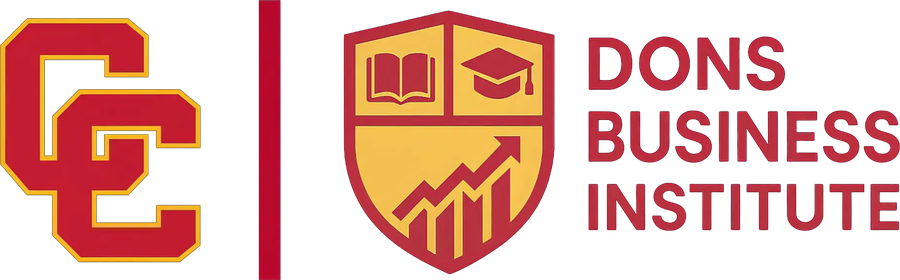
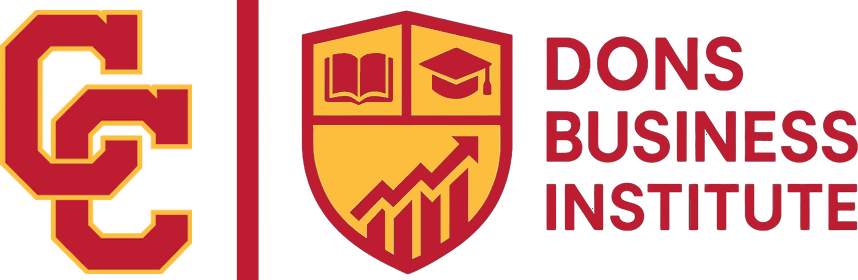
Swap in the official DBI lockup artwork

diff --git a/index.html b/index.html
@@ -14,7 +14,7 @@
 
 <header class="masthead" id="topbar">
   <a class="mark" href="index.html" aria-label="Dons Business Institute — home">
-    <img src="assets/img/lockup.png" alt="" width="170" height="53">
+    <img src="assets/img/lockup.png" alt="" width="170" height="55">
   </a>
   <nav aria-label="Primary">
     <a href="course.html" class="push">The Flagship Program</a>
@@ -62,7 +62,7 @@
     </div>
 
     <div class="intro-lockup" aria-hidden="true">
-      <img src="assets/img/lockup.png" alt="" width="560" height="174">
+      <img src="assets/img/lockup.png" alt="" width="560" height="183">
       <p class="descent-hint">Scroll<span class="hint-arrow">↓</span></p>
     </div>
   </div>
@@ -183,7 +183,7 @@
 
 <footer>
   <div class="wrap">
-    <img class="footer-mark" src="assets/img/lockup.png" alt="Dons Business Institute, Cathedral Catholic High School" width="280" height="87">
+    <img class="footer-mark" src="assets/img/lockup.png" alt="Dons Business Institute, Cathedral Catholic High School" width="280" height="91">
     <p class="charter">Student-led · Industry-informed · School-authorized · Adult-governed</p>
     <p class="fine">
       The Dons Business Institute is a programme of Cathedral Catholic High School, San Diego.

diff --git a/course.html b/course.html
@@ -14,7 +14,7 @@
 
 <header class="masthead" id="topbar">
   <a class="mark" href="index.html" aria-label="Dons Business Institute — home">
-    <img src="assets/img/lockup.png" alt="" width="170" height="53">
+    <img src="assets/img/lockup.png" alt="" width="170" height="55">
   </a>
   <nav aria-label="Primary">
     <a href="course.html" class="active">The Flagship Program</a>
@@ -521,7 +521,7 @@
 
 <footer>
   <div class="wrap">
-    <img class="footer-mark" src="assets/img/lockup.png" alt="Dons Business Institute, Cathedral Catholic High School" width="280" height="87">
+    <img class="footer-mark" src="assets/img/lockup.png" alt="Dons Business Institute, Cathedral Catholic High School" width="280" height="91">
     <p class="charter">Student-led · Industry-informed · School-authorized · Adult-governed</p>
     <p class="fine">
       The Dons Business Institute is a programme of Cathedral Catholic High School, San Diego.

diff --git a/donate.html b/donate.html
@@ -14,7 +14,7 @@
 
 <header class="masthead" id="topbar">
   <a class="mark" href="index.html" aria-label="Dons Business Institute — home">
-    <img src="assets/img/lockup.png" alt="" width="170" height="53">
+    <img src="assets/img/lockup.png" alt="" width="170" height="55">
   </a>
   <nav aria-label="Primary">
     <a href="course.html" class="push">The Flagship Program</a>
@@ -116,7 +116,7 @@
 
 <footer>
   <div class="wrap">
-    <img class="footer-mark" src="assets/img/lockup.png" alt="Dons Business Institute, Cathedral Catholic High School" width="280" height="87">
+    <img class="footer-mark" src="assets/img/lockup.png" alt="Dons Business Institute, Cathedral Catholic High School" width="280" height="91">
     <p class="charter">Student-led · Industry-informed · School-authorized · Adult-governed</p>
     <p class="fine">
       The Dons Business Institute is a programme of Cathedral Catholic High School, San Diego.

diff --git a/finance.html b/finance.html
@@ -14,7 +14,7 @@
 
 <header class="masthead" id="topbar">
   <a class="mark" href="index.html" aria-label="Dons Business Institute — home">
-    <img src="assets/img/lockup.png" alt="" width="170" height="53">
+    <img src="assets/img/lockup.png" alt="" width="170" height="55">
   </a>
   <nav aria-label="Primary">
     <a href="course.html" class="push">The Flagship Program</a>
@@ -261,7 +261,7 @@
 
 <footer>
   <div class="wrap">
-    <img class="footer-mark" src="assets/img/lockup.png" alt="Dons Business Institute, Cathedral Catholic High School" width="280" height="87">
+    <img class="footer-mark" src="assets/img/lockup.png" alt="Dons Business Institute, Cathedral Catholic High School" width="280" height="91">
     <p class="charter">Student-led · Industry-informed · School-authorized · Adult-governed</p>
     <p class="fine">
       The Dons Business Institute is a programme of Cathedral Catholic High School, San Diego.

diff --git a/join.html b/join.html
@@ -14,7 +14,7 @@
 
 <header class="masthead" id="topbar">
   <a class="mark" href="index.html" aria-label="Dons Business Institute — home">
-    <img src="assets/img/lockup.png" alt="" width="170" height="53">
+    <img src="assets/img/lockup.png" alt="" width="170" height="55">
   </a>
   <nav aria-label="Primary">
     <a href="course.html" class="push">The Flagship Program</a>
@@ -227,7 +227,7 @@
 
 <footer>
   <div class="wrap">
-    <img class="footer-mark" src="assets/img/lockup.png" alt="Dons Business Institute, Cathedral Catholic High School" width="280" height="87">
+    <img class="footer-mark" src="assets/img/lockup.png" alt="Dons Business Institute, Cathedral Catholic High School" width="280" height="91">
     <p class="charter">Student-led · Industry-informed · School-authorized · Adult-governed</p>
     <p class="fine">
       The Dons Business Institute is a programme of Cathedral Catholic High School, San Diego.

diff --git a/usd.html b/usd.html
@@ -14,7 +14,7 @@
 
 <header class="masthead" id="topbar">
   <a class="mark" href="index.html" aria-label="Dons Business Institute — home">
-    <img src="assets/img/lockup.png" alt="" width="170" height="53">
+    <img src="assets/img/lockup.png" alt="" width="170" height="55">
   </a>
   <nav aria-label="Primary">
     <a href="course.html" class="push">The Flagship Program</a>
@@ -122,7 +122,7 @@
 
 <footer>
   <div class="wrap">
-    <img class="footer-mark" src="assets/img/lockup.png" alt="Dons Business Institute, Cathedral Catholic High School" width="280" height="87">
+    <img class="footer-mark" src="assets/img/lockup.png" alt="Dons Business Institute, Cathedral Catholic High School" width="280" height="91">
     <p class="charter">Student-led · Industry-informed · School-authorized · Adult-governed</p>
     <p class="fine">
       The Dons Business Institute is a programme of Cathedral Catholic High School, San Diego.
